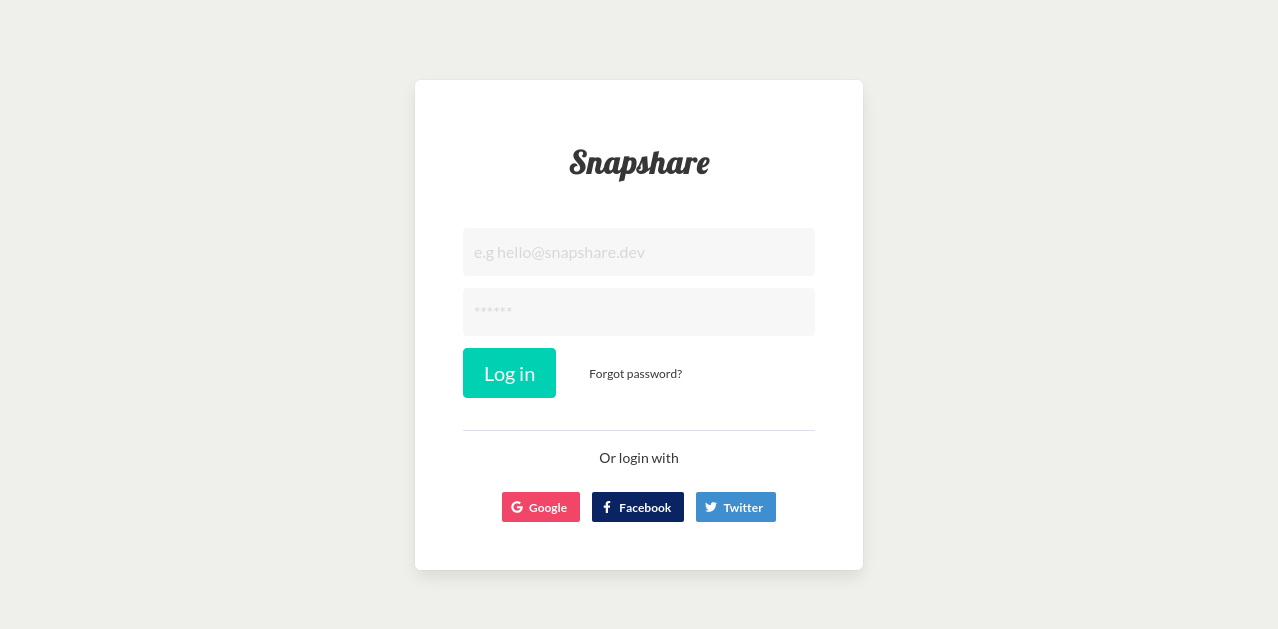
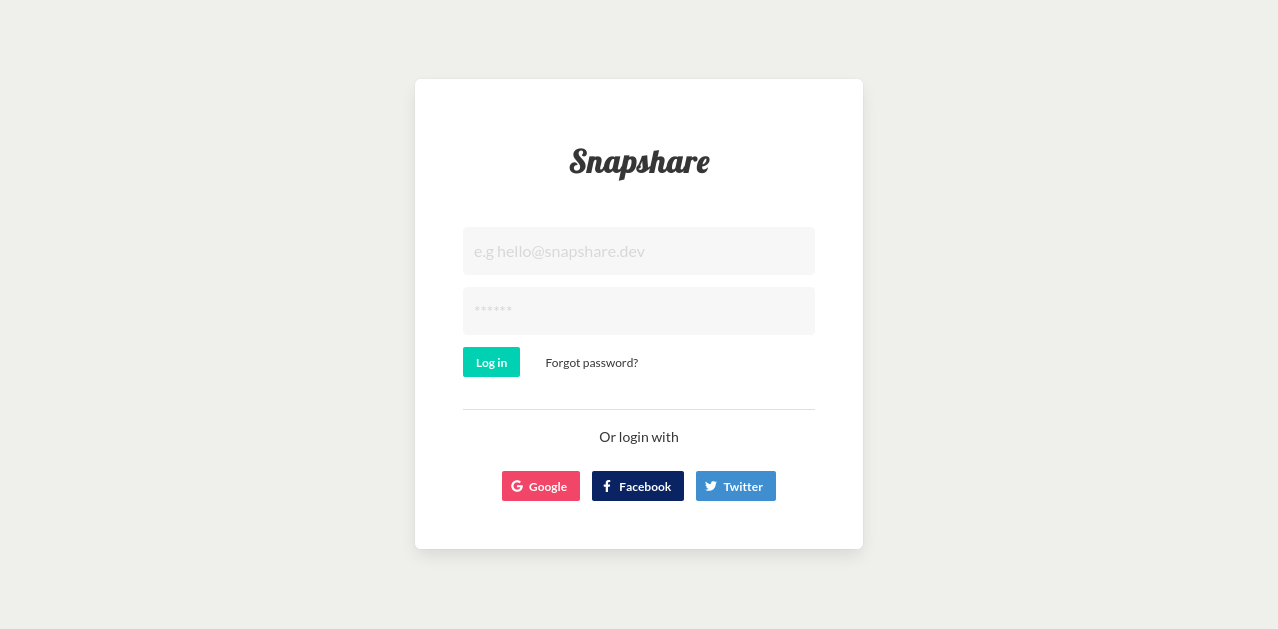
Modified screenshot

Changed region(s): [[0.3052, 0.6645, 0.6714, 0.9062], [0.3357, 0.5437, 0.5188, 0.6343], [0.4272, 0.2417, 0.5493, 0.2719]]

diff --git a/frontend/src/components/accounts/Login.jsx b/frontend/src/components/accounts/Login.jsx
@@ -30,12 +30,12 @@ const Login = () => {
             </div>
             <div className="field is-grouped">
               <p className="control">
-                <button className="button is-medium is-primary mb-4">
+                <button className="button is-small is-primary mb-4 has-text-weight-semibold">
                   Log in
                 </button>
               </p>
               <p className="control">
-                <a className="button is-ghost no-focus-outline is-medium has-text-dark">
+                <a className="button is-ghost no-focus-outline is-small has-text-dark">
                   <span style={{ fontSize: "12px" }}> Forgot password?</span>
                 </a>
               </p>
